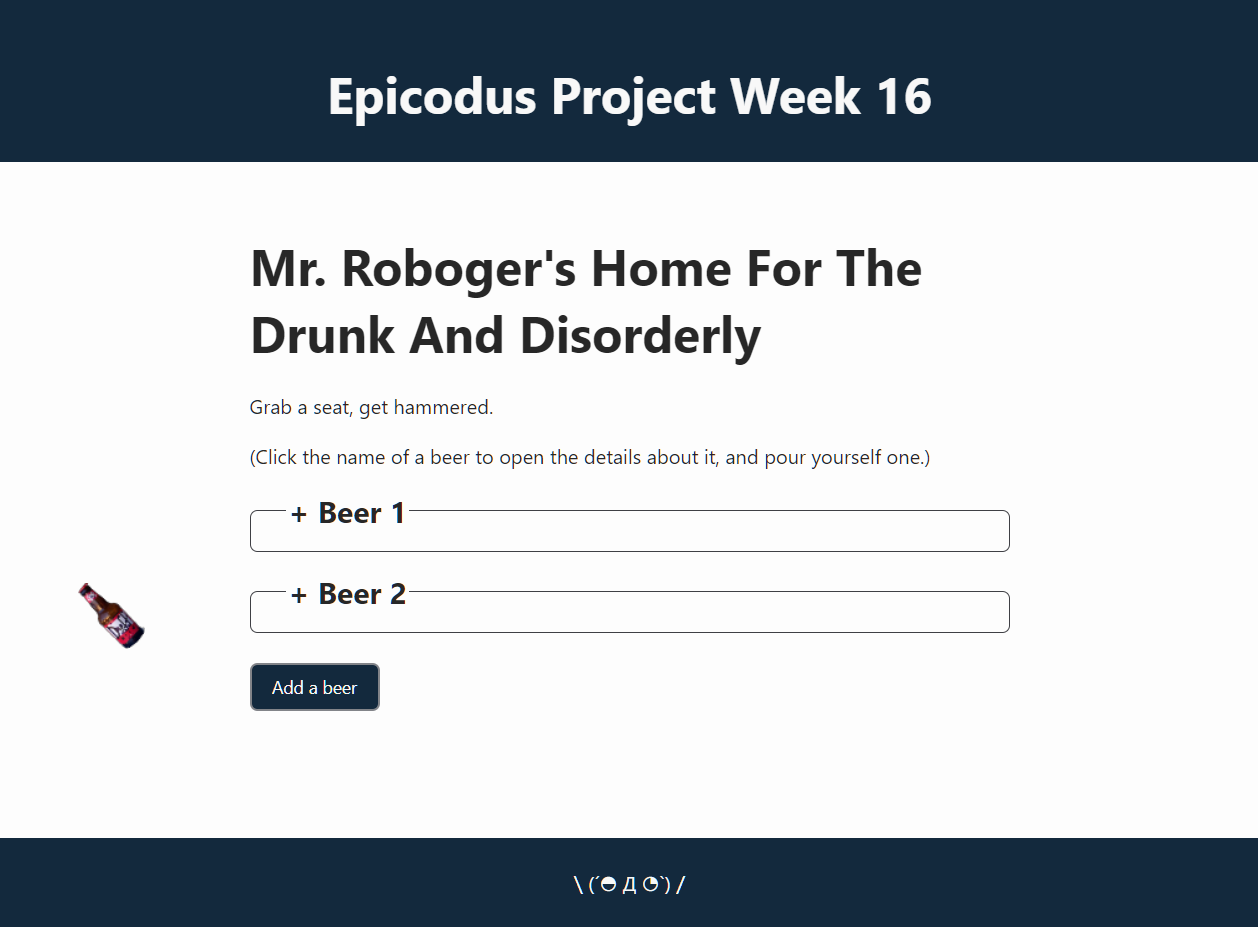
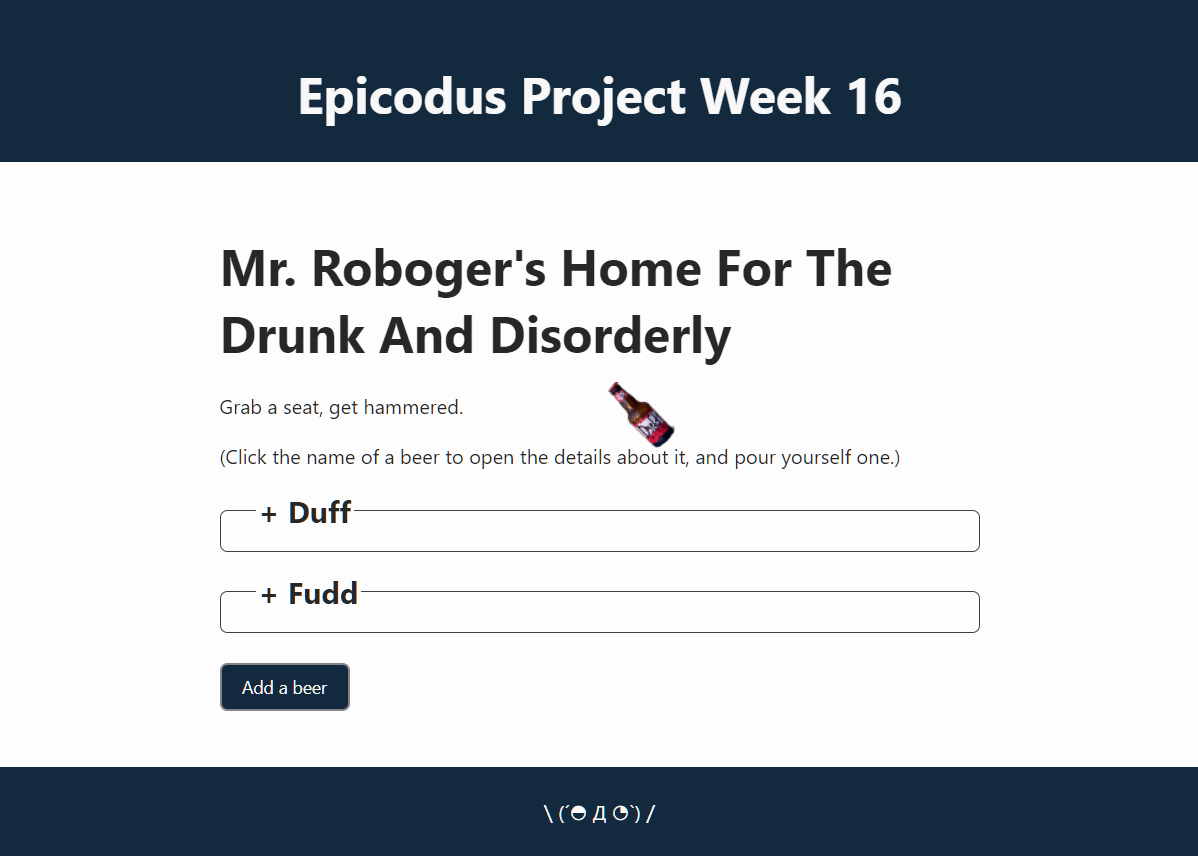
Fix screenshot and default beers

diff --git a/src/components/BeerControl.js b/src/components/BeerControl.js
@@ -7,16 +7,16 @@ import BeerList from "./BeerList";
 const testBeers = [
   {
     id: uuidv4(),
-    name: "Beer 1",
-    brand: "Beer Company 1",
+    name: "Duff",
+    brand: "Duff Beer Company",
     price: 10,
     alcoholContent: 0.1,
     pints: 11
   },
   {
     id: uuidv4(),
-    name: "Beer 2",
-    brand: "Beer Company 2",
+    name: "Fudd",
+    brand: "Fudd Beer Company",
     price: 5,
     alcoholContent: 9.9,
     pints: 124
